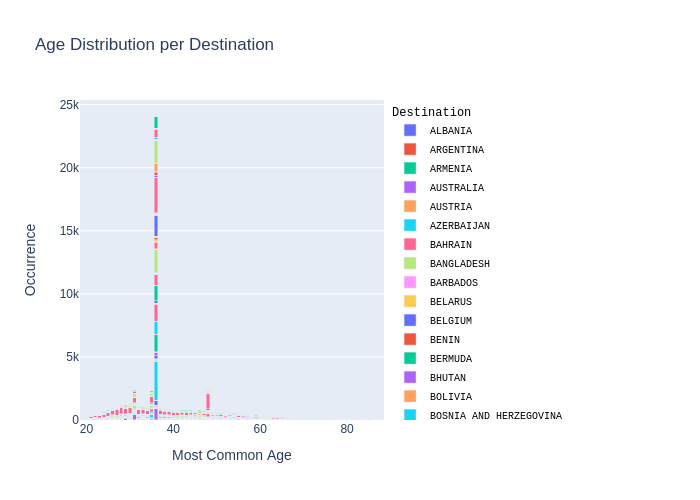
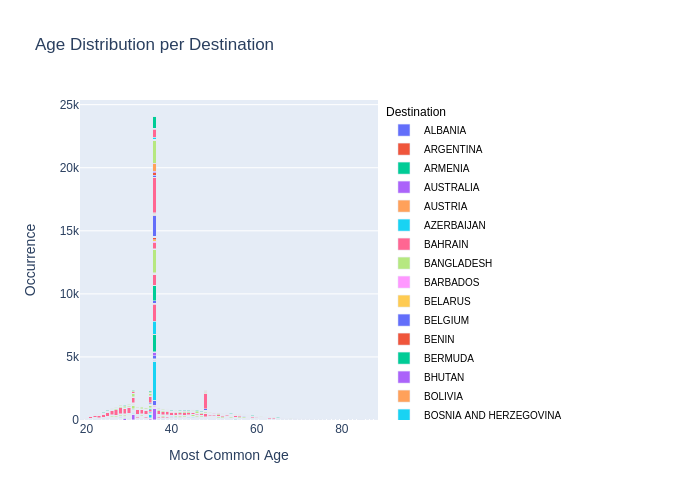
fix: :bug: Fix legend in age chart, and fix top_destinations_per_month (become top_selling_country_per_month)

diff --git a/get_stats.py b/get_stats.py
@@ -60,7 +60,7 @@ fig = px.bar(
 pio.write_image(fig, "./images/top_categories.png")
 # endregion --------------------------------------
 
-# # region age_range_per_destination
+# region age_range_per_destination
 query = "SELECT * FROM age_range_per_destination"
 df = pd.read_sql(query, conn)
 
@@ -111,20 +111,22 @@ fig = px.bar(
 pio.write_image(fig, "./images/income_per_age_range.png")
 # endregion --------------------------------------
 
-# region top_destinations_per_month
-query = "SELECT * FROM top_destinations_per_month"
+# region top_selling_country_per_month
+query = "SELECT * FROM top_selling_country_per_month"
 df = pd.read_sql(query, conn)
 
 fig = px.bar(
     df,
     x="month",
-    y="total_sales",
-    color="destination",
-    title="top_destinations_per_month",
-    labels={"agency": "Agency", "total_turnover": "Total turnover"},
+    y="sales_count",
+    color="country",
+    title="Top Selling Country per Month",
+    labels={"sales_count": "Sales Count", "month": "Month", "country": "Country"},
 )
 
-pio.write_image(fig, "./images/top_destinations_per_month.png")
+fig.update_layout(barmode="stack", legend = dict(font = dict(size = 10, color = "black")))
+
+pio.write_image(fig, "./images/top_selling_country_per_month.png")
 # endregion --------------------------------------
 
 # region top_agencies_profit
